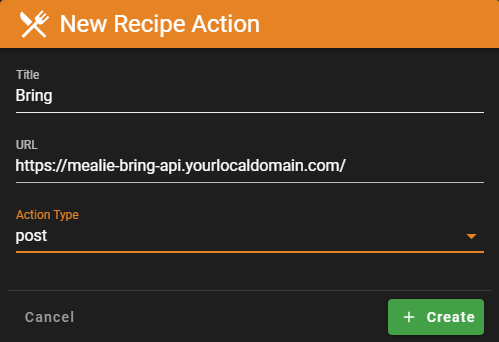
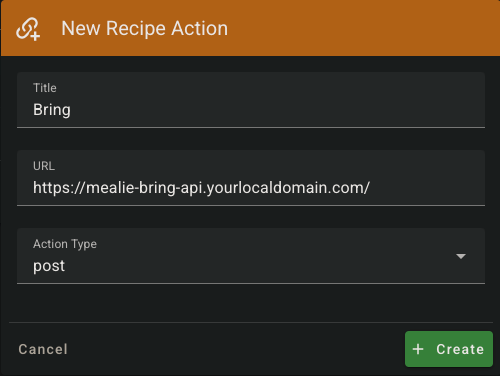
Update README log examples and refresh action images

diff --git a/README.md b/README.md
@@ -127,8 +127,12 @@ Mealie and this project.
    - You should now see the ingredients in your list
    - You should see some output in the logfile
    ```text
-   mealie_bring_api | [2024-05-18 13:38:41,090] [LoggerMixin] [INFO] [Received recipe "Apple crumble" from "https://mealie-bring-api.yourlocaldomain.com"]
-   mealie_bring_api | [2024-05-18 13:38:45,373] [LoggerMixin] [INFO] [Added all ingredients to Bring]
+   [2025-07-28 15:23:11,785] [BringHandler] [INFO] Attempting the login into Bring
+   [2025-07-28 15:23:12,589] [BringHandler] [INFO] Login successful
+   [2025-07-28 15:23:12,729] [BringHandler] [INFO] Found the list with the name "My List" (UUID: 12345678-1234-1234-1234-12345678)   
+
+   [2025-07-28 15:24:33,872] [Main] [INFO] Received recipe "Apfelstrudel" from "1.2.3.4"
+   [2025-07-28 15:24:33,873] [Main] [INFO] Adding ingredients to Bring: [Ingredient(name='Butter', specification='60 Gramm'), Ingredient(name='Semmelbrösel', specification='80 Gramm (oder Mandelsplitter)'), Ingredient(name='Mandelsplitter', specification='80 Gramm'), Ingredient(name='Zitronensaft', specification='30 Milliliter'), Ingredient(name='Zucker', specification='80 Gramm'), Ingredient(name='Zimt', specification='1 Teelöffel'), Ingredient(name='Apfel', specification='1 Kilogramm'), Ingredient(name='Rosinen', specification='150 Gramm')]
    ```
 
 ## Maintenance
